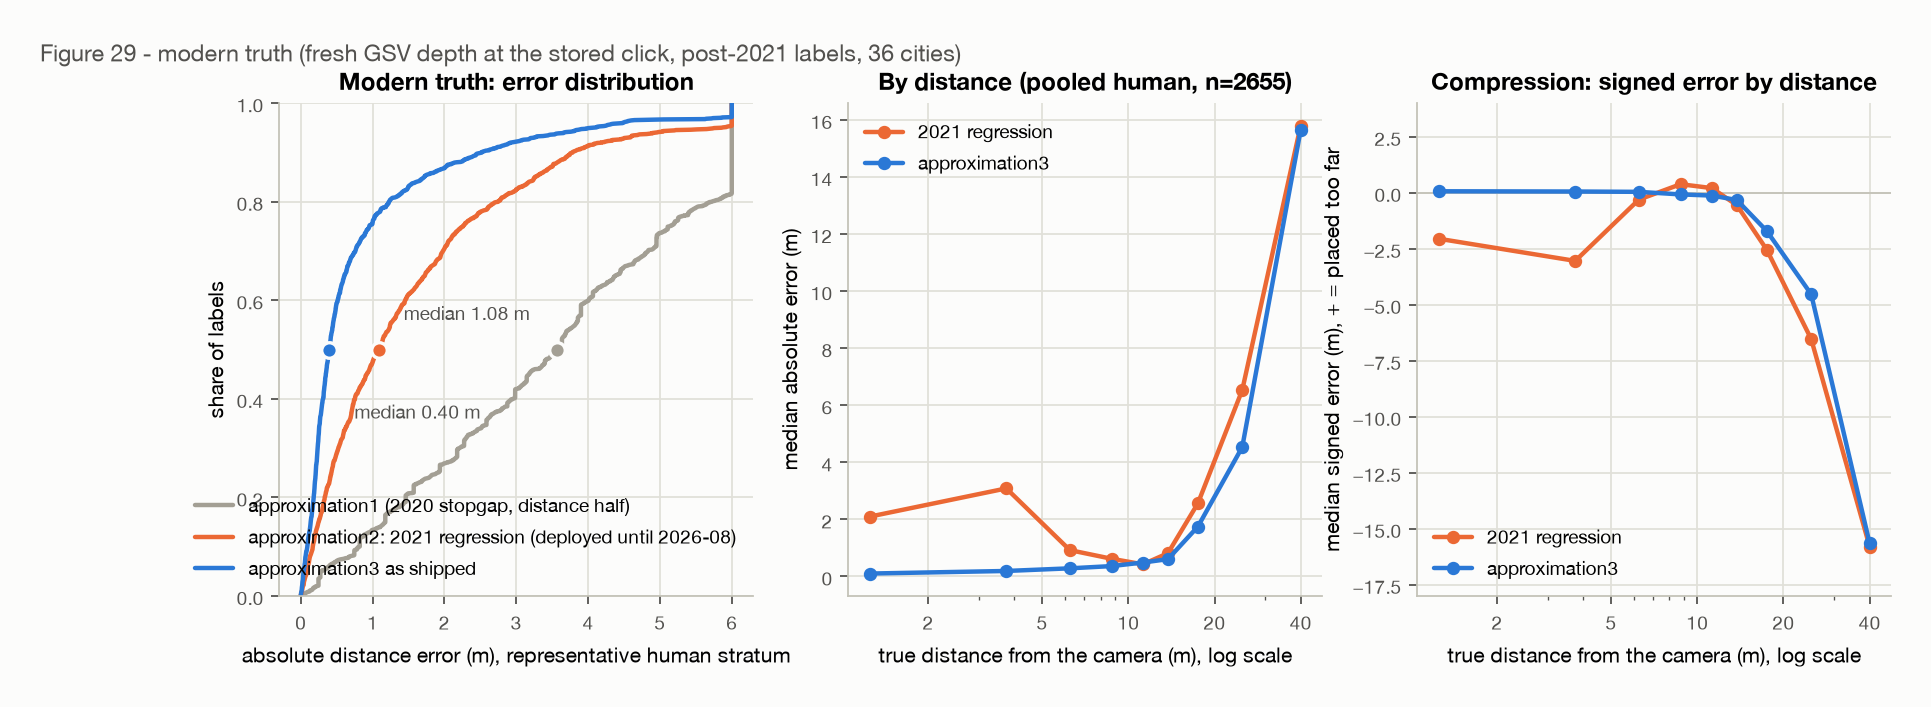
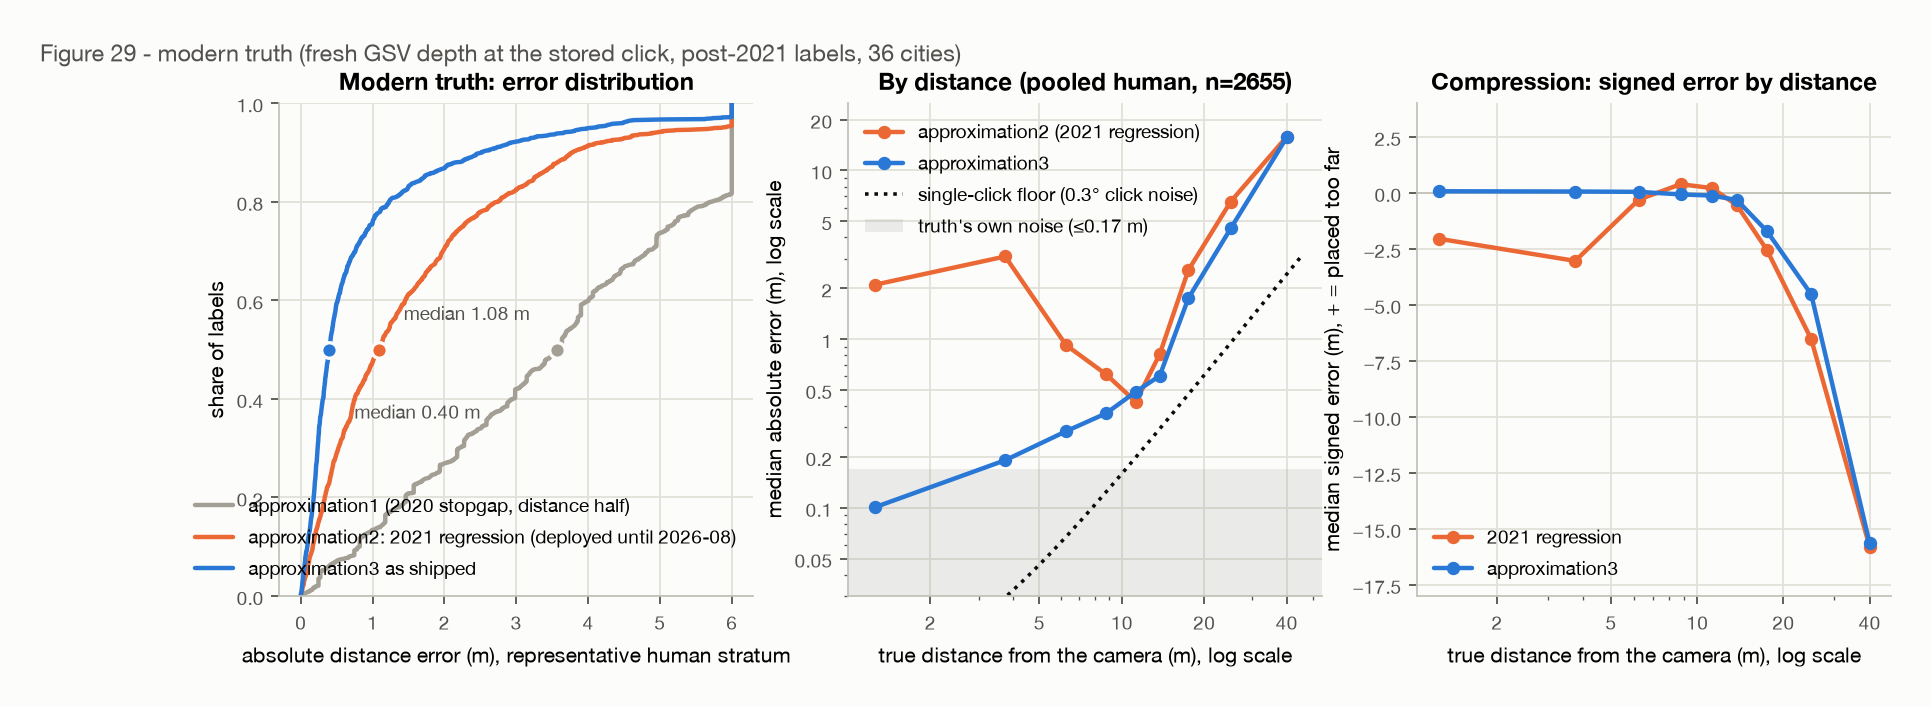
Draw the ideal on figure 29 and say what an approximation4 would need (SidewalkWebpage#5084)
Two ideal lines join the by-distance panel: the single-click floor, 0.6745 (d^2 + h^2) / h sigma with the
0.3 deg per-axis click noise panorama-tools measured, and the band below the depth truth's own resolution
(0.12-0.17 m). approximation3 sits within ~2x of the floor out to 15 m; the gap opens past that. The panel
goes log-log so the near field is readable. Report SS5.4 ranks the approximation4 candidates (per-pano
height, ground plane, per-label sigma -> SidewalkWebpage#5140, multi-view) with the circularity and
depth-access caveats; a findings test locks the floor table.

Claude-Session: https://claude.ai/code/session_016tzmVTemMZsQMQn2HwrToN

diff --git a/python/signoff.py b/python/signoff.py
@@ -587,8 +587,46 @@ def modern_frame(shipped: dict, data_dir: str = DATA) -> tuple[pd.DataFrame, dic
         "repeated_holdout": repeated_holdout(human, shipped),
         "leave_one_city_out": leave_one_city_out(human, shipped),
         "rig_tilt_rider": rig_tilt_rider(human),
+        "ideal": ideal_floors(shipped),
     }
     return human, summary
+
+
+# ---------------------------------------------------------------- the ideal lines
+
+# Click noise per axis, from sidewalk-panorama-tools' click-noise study
+# (reports/2026-08-09-click-noise.md: ~13k co-located duplicate label pairs; core sigma ~0.3 deg
+# per axis, 0.5 deg conservative). The floor below is what ONE click can resolve, whatever the
+# estimator does with it.
+CLICK_NOISE_SIGMA_DEG = 0.3
+CLICK_NOISE_SIGMA_CONSERVATIVE_DEG = 0.5
+GAUSSIAN_MEDIAN_ABS = 0.6744897501960817  # median |N(0, 1)|
+# The depth truth's own resolution: two captures of the same street agree on the ground surface
+# to 0.12 m median (depth-validation report SS5), and the shipped estimator's modern signed
+# residual (-0.17 m) is about the size of the systematics that report names (curb overshoot,
+# terrain). Nothing below this band can be measured on depth truth.
+TRUTH_BAND_M = [0.12, 0.17]
+IDEAL_TABLE_DISTANCES_M = [5.0, 10.0, 15.0, 20.0, 30.0]
+
+
+def single_click_floor_m(distance_m, height_m: float, sigma_deg: float = CLICK_NOISE_SIGMA_DEG) -> np.ndarray:
+    """Median absolute distance error from click noise alone: d = h / tan(dep), so
+    |dd/ddep| = h / sin^2(dep) = (d^2 + h^2) / h, and median|err| = 0.6745 sigma |dd/ddep|."""
+    d = np.asarray(distance_m, float)
+    return GAUSSIAN_MEDIAN_ABS * (d ** 2 + height_m ** 2) / height_m * np.radians(sigma_deg)
+
+
+def ideal_floors(shipped: dict) -> dict:
+    h = shipped["height_m"]
+    rows = []
+    for d in IDEAL_TABLE_DISTANCES_M:
+        rows.append({"distance_m": d,
+                     "click_floor_median_m": float(single_click_floor_m(d, h)),
+                     "click_floor_conservative_median_m": float(
+                         single_click_floor_m(d, h, CLICK_NOISE_SIGMA_CONSERVATIVE_DEG))})
+    return {"click_noise_sigma_deg": CLICK_NOISE_SIGMA_DEG,
+            "click_noise_sigma_conservative_deg": CLICK_NOISE_SIGMA_CONSERVATIVE_DEG,
+            "height_m": h, "truth_band_m": TRUTH_BAND_M, "table": rows}
 
 
 # --------------------------------------------------------------------------- geodesy

diff --git a/python/signoff_figures.py b/python/signoff_figures.py
@@ -110,14 +110,27 @@ def fig29(summary, modern):
     ax = axes[1]
     bins = [0, 2.5, 5, 7.5, 10, 12.5, 15, 20, 30, 50]
     c, med, n = med_by_bin(modern, bins, "truth_m", ["err_A", "err_approx3"])
-    ax.plot(c, med["err_A"], "-o", color=C_REG, ms=5, label="2021 regression")
+    ax.plot(c, med["err_A"], "-o", color=C_REG, ms=5, label="approximation2 (2021 regression)")
     ax.plot(c, med["err_approx3"], "-o", color=C_SHIP, ms=5, label="approximation3")
+    # The two ideal lines: what one click can resolve, and what depth truth can measure.
+    ideal = summary["modern_frame"]["ideal"]
+    dd = np.geomspace(1.2, 45, 200)
+    ax.plot(dd, so.single_click_floor_m(dd, ideal["height_m"], ideal["click_noise_sigma_deg"]),
+            ":", color=C_TRUTH, lw=1.6,
+            label=f"single-click floor ({ideal['click_noise_sigma_deg']:g}° click noise)")
+    ax.axhspan(0.01, ideal["truth_band_m"][1], color=C_MUTED, alpha=0.15, lw=0,
+               label=f"truth's own noise (≤{ideal['truth_band_m'][1]:.2f} m)")
     ax.set_xscale("log")
+    ax.set_yscale("log")  # the floor spans 0.05-1.4 m; a linear axis hides the near field entirely
+    ax.set_ylim(0.03, 25)
+    ax.set_yticks([0.05, 0.1, 0.2, 0.5, 1, 2, 5, 10, 20])
+    ax.set_yticklabels(["0.05", "0.1", "0.2", "0.5", "1", "2", "5", "10", "20"])
+    ax.yaxis.set_minor_formatter(NullFormatter())
     ax.xaxis.set_minor_formatter(NullFormatter())
     ax.set_xticks([2, 5, 10, 20, 40])
     ax.set_xticklabels(["2", "5", "10", "20", "40"])
     ax.set_xlabel("true distance from the camera (m), log scale")
-    ax.set_ylabel("median absolute error (m)")
+    ax.set_ylabel("median absolute error (m), log scale")
     ax.set_title("By distance (pooled human, n=%d)" % len(modern))
     ax.legend(loc="upper left")
 

diff --git a/tests/test_signoff_findings.py b/tests/test_signoff_findings.py
@@ -104,6 +104,25 @@ def test_approximation1_is_the_2020_stopgap_in_both_frames(summary):
     assert rep["approx1"]["win_rate_vs_A"] < 0.2
 
 
+def test_ideal_floor_brackets_the_shipped_estimator(summary):
+    """The single-click floor (0.3 deg click noise through d = h / tan dep) is what any one-click
+    estimator can resolve. approximation3 sits within ~2x of it out to 15 m and the gap opens past
+    that, where the bounded tail and the far-field truth take over."""
+    import signoff as so
+    ideal = summary["modern_frame"]["ideal"]
+    assert ideal["click_noise_sigma_deg"] == 0.3 and ideal["truth_band_m"] == [0.12, 0.17]
+    floor = {r["distance_m"]: r["click_floor_median_m"] for r in ideal["table"]}
+    assert abs(floor[10.0] - 0.159) < 2e-3 and abs(floor[15.0] - 0.348) < 2e-3
+    for r in ideal["table"]:
+        assert r["click_floor_median_m"] == pytest.approx(
+            float(so.single_click_floor_m(r["distance_m"], ideal["height_m"])), abs=1e-12)
+        assert r["click_floor_conservative_median_m"] > r["click_floor_median_m"]
+    by_dist = {r["dist_bin"]: r["approx3"]["median_m"] for r in summary["modern_frame"]["by_true_distance"]}
+    assert by_dist["5-10"] < 2.5 * floor[10.0] + ideal["truth_band_m"][1]
+    assert by_dist["10-15"] < 2.0 * floor[15.0] + ideal["truth_band_m"][1]
+    assert by_dist["20-30"] > 2.0 * floor[30.0]
+
+
 def test_rig_tilt_does_not_reach_the_estimator_beyond_a_few_percent(summary):
     """The RQ4 rider: a tilt-shaped term on the shipped estimator is bounded at a few percent of
     the variance and a fraction of the full-tilt sensitivity, and the implied height is flat to

diff --git a/reports/2026-09-02-production-signoff.md b/reports/2026-09-02-production-signoff.md
@@ -8,6 +8,7 @@
 | **0.445 m [0.416, 0.470]** | the honest held-out number: re-calibrate the one height on a random half of the panoramas, score the other half, 200 times. It beats the regression in every split, and a height fitted on every *other* city beats the regression in every city |
 | **1.38 m vs 1.46 m** | on the regression's own 720×480-era held-out split (n=79,029) the shipped estimator still edges it (cluster-bootstrap CI on the median difference [−0.10, −0.06] m), carrying a −1.03 m bias that is the era truth's inflated scale, not the click geometry. With the same one-parameter budget *in that frame* it wins by 0.49 m (0.98 vs 1.46). `approximation1` scores 4.84 m there, the 2021 analysis's own number for it |
 | **R² = 0.045** | the rig-tilt check the 2020–2022 crop work asked for: how much of the label-implied camera height the panorama's pitch and roll explain, projected onto the label's bearing. A raster misaligned by the full rig tilt would move the height 0.17 m per degree; the fitted slopes are 0.02 (pitch) and 0.04 m/° (roll), and the same signature is what road slope produces in a rectified frame |
+| **≈ 2× the floor** | how far the shipped estimator sits above the ideal: one click at 0.3° noise can resolve 0.16 m at 10 m and 0.35 m at 15 m, and `approximation3` measures 0.32 and 0.53 m there. Past 15 m the gap opens, where the bounded tail meets a truth no single click can reach (§5.4, the dotted line and shaded band on fig 29) |
 | **≤ 11 cm** | the geodesy decision, quantified: the 6371 km sphere every implementation uses sits at most 10.7 cm from the WGS84 geodesic at the estimator's 23.85 m largest answer (2.2 cm at the median label), and the client's turf sphere is 0.03 mm from the server's. The sphere stays, and a 58-case fixture pins Scala, JS and SQL to it at 1e-9° |
 | **0 m / 6.2 m** | the frame contract Immersive Explore needs: a click projected through its *own* viewport frame reproduces the position to the bit at any size or aspect; a 1920×1080 click read through today's 720×480 constant misses by 6.2 m at p90 |
 
@@ -237,7 +238,7 @@ cluster-bootstrap CI on the representative median difference between `approximat
 `approximation2` is [−0.78, −0.60] m. Bearing for the other two is the exact POV inversion the
 [POV report](2026-08-06-pov-inversion.md) verified against production to ≤1 px.
 
-![Figure 29 — modern truth: the error CDF (0.40 vs 1.08 m medians, approximation1 in grey), median error by true distance, and the signed-error curve: the regression is 2–3 m too near below 5 m and bends past 12 m, the shipped estimator sits on zero to ~15 m.](../figures/fig29-signoff-modern-frame.png)
+![Figure 29 — modern truth: the error CDF (0.40 vs 1.08 m medians, approximation1 in grey); median error by true distance against the two ideal lines of §5.4, the dotted single-click floor and the shaded band of the truth's own noise; and the signed-error curve: the regression is 2–3 m too near below 5 m and bends past 12 m, the shipped estimator sits on zero to ~15 m.](../figures/fig29-signoff-modern-frame.png)
 
 By slice (fig 31, left column; medians in metres, `approximation2` → `approximation3`):
 
@@ -610,6 +611,61 @@ In short: they were right about the projection, right about the physics, one `pa
 from the bug that was actually degrading their crops, and blocked on metadata the official API
 does not provide. None of it bears on the estimator's sign-off, which is why §4.4 is a rider
 and not a caveat.
+
+### §5.4 The ideal, and what an `approximation4` would have to do
+
+"How good could this get?" has two answers, and figure 29's middle panel now draws both.
+
+**The single-click floor.** A label is one click, and the click has noise: the panorama-tools
+click-noise study measured ~0.3° per axis on ~13k co-located duplicate pairs (0.5°
+conservative). Distance is `h / tan(dep)`, so click noise alone gives a distance error of
+`σ_d = (d² + h²) / h · σ_click`, and no estimator that sees one click can beat it. The dotted
+line is its median (`0.6745 σ_d`) with the shipped 2.34 m height:
+
+| true distance | single-click floor, 0.3° | conservative, 0.5° | `approximation3`, measured |
+|---|---:|---:|---:|
+| 5 m | 0.05 m | 0.08 m | 0.18 m (0–5 m bin) |
+| 10 m | 0.16 m | 0.27 m | 0.32 m (5–10 m) |
+| 15 m | 0.35 m | 0.58 m | 0.53 m (10–15 m) |
+| 20 m | 0.61 m | 1.02 m | 1.75 m (15–20 m) |
+| 30 m | 1.37 m | 2.28 m | 4.53 m (20–30 m) |
+
+So the shipped estimator sits within about 2× of what one click can resolve out to 15 m, and
+the gap opens beyond that, where the bounded tail and the far-field truth take over.
+
+**The truth's own noise.** Below the depth model's resolution nothing can be measured *on this
+truth*: two captures of the same street agree on the ground to 0.12 m median
+([depth validation](2026-08-06-depth-validation.md) §5), and the shipped estimator's modern
+signed residual, −0.17 m, is the size of the systematics that report names (curb overshoot,
+terrain, occlusion). That is the shaded band; an improvement inside it needs an independent
+truth, bearing-only triangulation or a surveyed inventory, before it can be claimed.
+
+**What an `approximation4` would do**, in order of expected gain, with the honest caveat on each:
+
+1. *A per-panorama camera height.* The largest remaining term. Heights track rig and vintage
+   (1.11–2.50 m across the auto-labeler's four cities; the modern interquartile band here is
+   about ±4%, i.e. ±0.5 m at 12 m for a whole panorama's labels). The auto-labeler already reads
+   the height from the depth payload's dominant ground plane. The catch is circularity: on depth
+   truth a height read from the same payload scores near zero by construction, so this rung can
+   only be validated on the triangulation frame or survey data.
+2. *A per-panorama ground plane instead of flat earth.* The same payload gives the plane's
+   normal, which removes the slope term §4.4 bounded at a few percent.
+3. *An honest error bar per label.* Store σ next to `lat/lng`, from the floor formula plus the
+   height term; downstream clustering and street attachment can then weight labels instead of
+   treating a 3° click and a 25° click as equally certain. The auto-labeler's covariance model
+   (`GroundEstimate.cov_en`) is a ready template, and this rung needs no new truth at all
+   ([SidewalkWebpage#5140](https://github.com/ProjectSidewalk/SidewalkWebpage/issues/5140)).
+4. *Multi-view for the far field.* Beyond 15 m one click cannot do better than metres; two
+   panoramas can, which is what the auto-labeler's fusion already does for AI labels (world
+   recall 0.93–0.96). For human labels the equivalent is a street-geometry prior: a label 20 m
+   out is almost always on the sidewalk line of its street edge.
+
+Items 1 and 2 need depth at label time, and the JS depth API is gone. The workable route is
+server-side: fetch the payload once when a panorama is first ingested (the auto-labeler's
+harvester does this for 171k panoramas today, through an unofficial client) and store its
+height and ground-plane normal on the pano record, so the estimator reads two more columns.
+That is a product and dependency decision more than a research one, and it is the reason the
+population constant, not a per-pano height, is what ships.
 
 ## §6 · The sign-off, and what is deliberately not claimed
 
